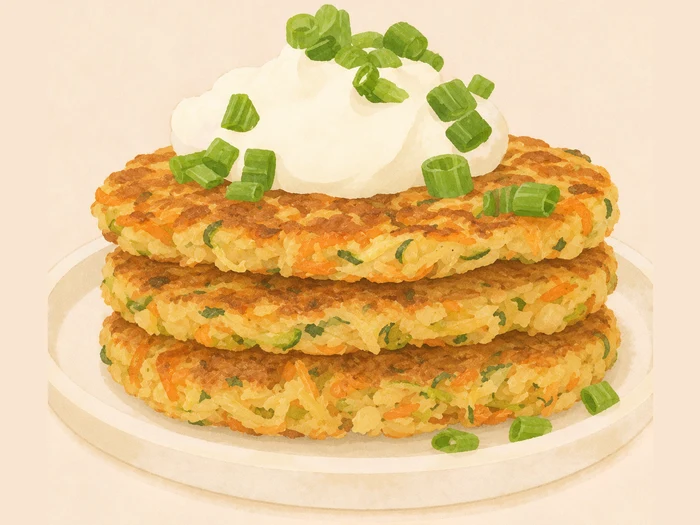
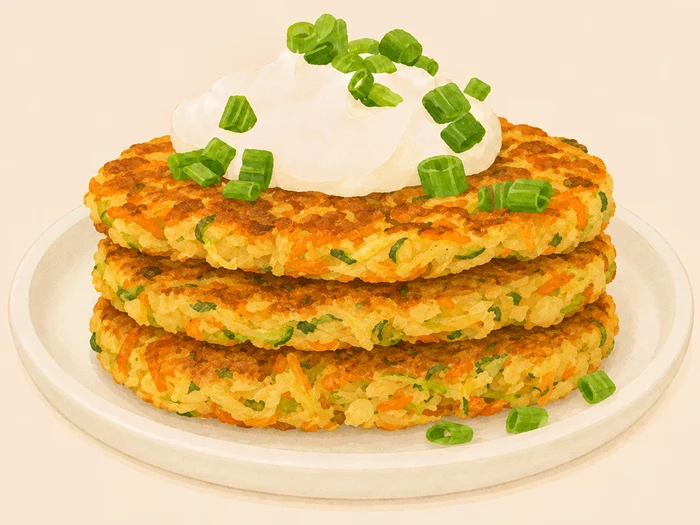
慢火厚煎蔬菜蛋餅換新圖：餅更厚、盤子看得到
取景沒有套凹陷圈規則 —— 這道的餅疊得比盤子的凹陷圈還高，套下去上緣的蔥花
會被切掉（實測上距 0%、下距 11%）。改用整體外框 fill 0.98，主體上下各留 3%，
什麼都沒切。

📌 規則的邊界：凹陷圈當錨點的前提是「食物盛在圈裡」。食物疊出圈外的
（煎餅塔、瑪芬）要回到整體外框取景 —— 規範裡「食物即主角」那一類。

ASSETS 62 → 63

diff --git a/index.html b/index.html
@@ -774,8 +774,8 @@ ol.steps li::before {
 </div>
 
 <!-- 改完 recipes.js 就把 v 往上加一號，不然瀏覽器會一直吃舊的快取 -->
-<script src="strings.js?v=15"></script>
-<script src="recipes.js?v=92"></script>
+<script src="strings.js?v=17"></script>
+<script src="recipes.js?v=94"></script>
 <script>
 /* ══════════════════════════════════════════════
    慢寶 · 骨架
@@ -783,7 +783,7 @@ ol.steps li::before {
    ══════════════════════════════════════════════ */
 
 /* 素材版本。換過圖就 bump 一次，否則瀏覽器會一直用舊的快取 */
-const ASSETS = '62';
+const ASSETS = '63';
 const asset = p => p + '?v=' + ASSETS;
 
 const $ = (s, el = document) => el.querySelector(s);
